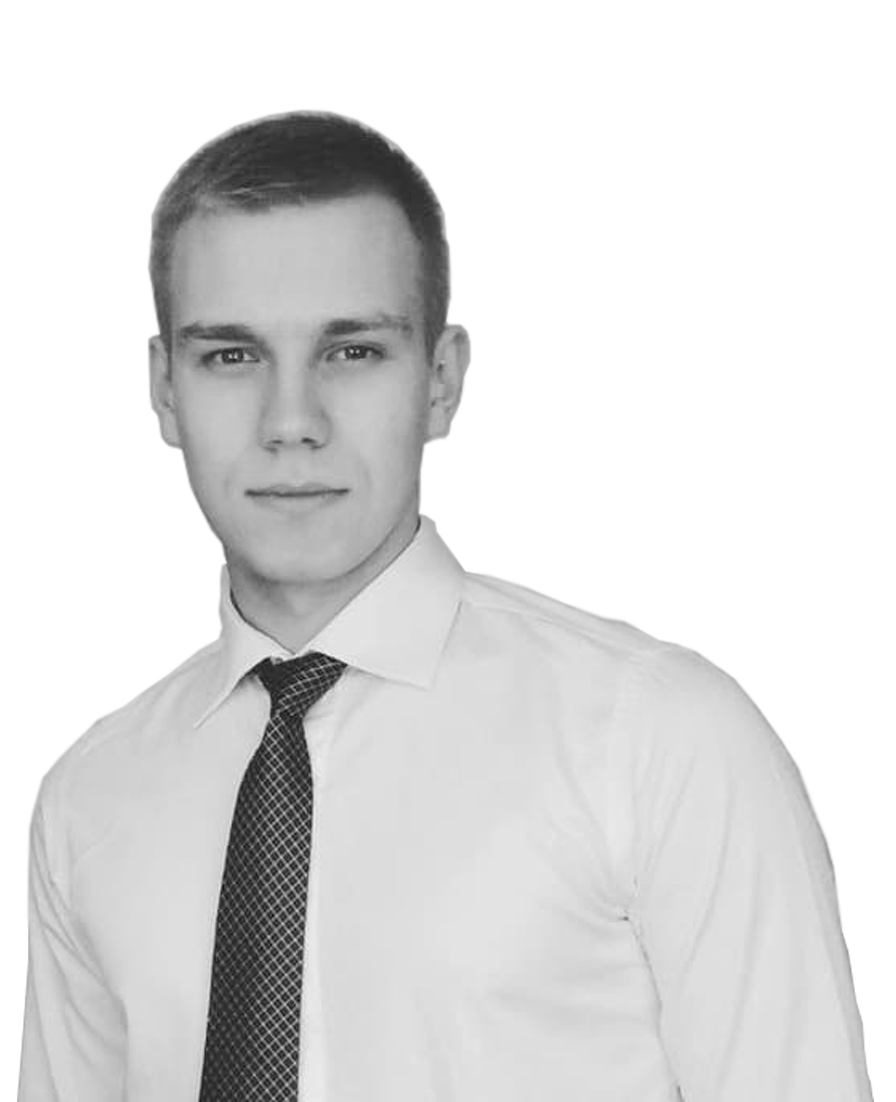
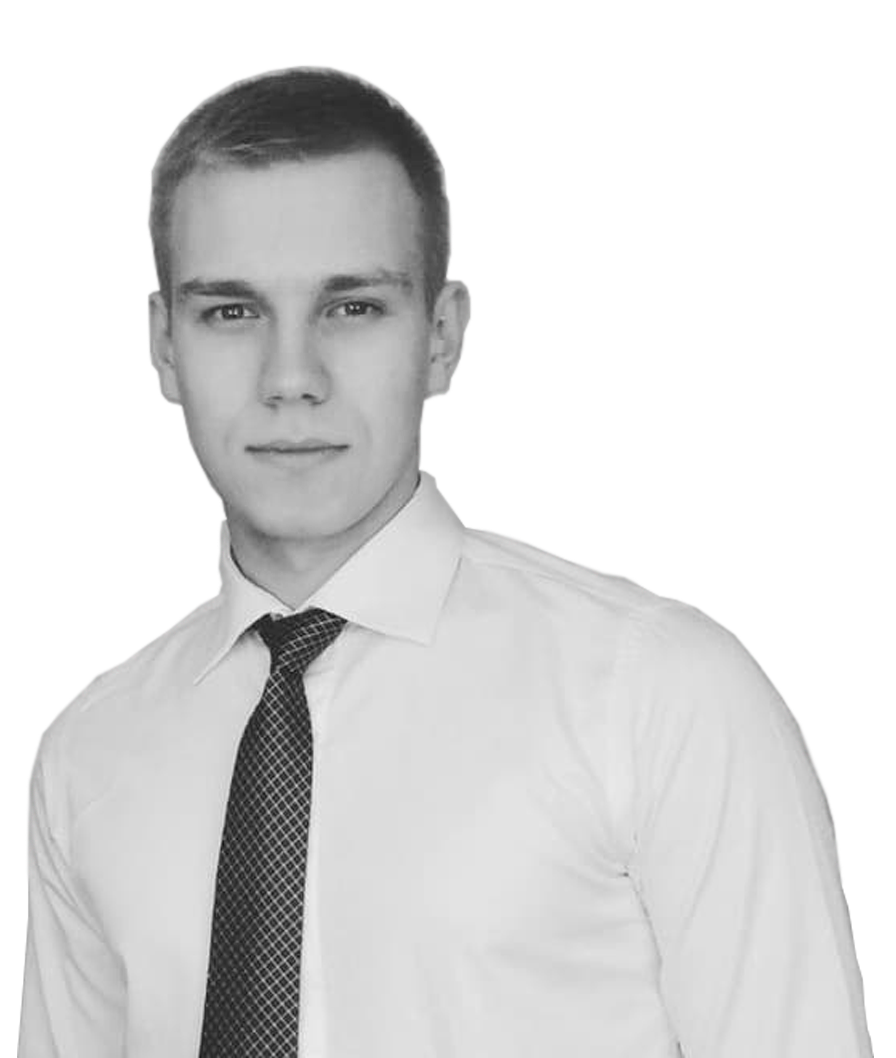
asdasd

diff --git a/ua.html b/ua.html
@@ -98,7 +98,7 @@
             </div>
 
             <div class="col-md-6 text-right">
-                <img src="assets/img/me.png" alt="me">
+                <img src="assets/img/me2.png" alt="me">
             </div>
 
         </div>
@@ -318,7 +318,7 @@
     <section id="contact" class="site-section section-form text-center">
         <div class="container">
 
-            <h3>Contact</h3>
+            <h3>Контакти</h3>
             <img src="assets/img/lines.svg" class="img-lines" alt="lines">
             <script type="text/javascript">var submitted=false;</script>
             <iframe name="hidden_iframe" id="hidden_iframe" style="display:none;"
@@ -328,17 +328,17 @@
                   method="post" target="hidden_iframe" onsubmit="submitted=true;">
                 <div class="row">
                     <div class="col-sm-6">
-                        <input type="text" name="entry.856185836" class="form-control mt-x-0" placeholder="Name" required>
+                        <input type="text" name="entry.856185836" class="form-control mt-x-0" placeholder="Ім'я" required>
                     </div>
                     <div class="col-sm-6">
-                        <input type="email" name="entry.111074302" class="form-control" placeholder="Email" required>
+                        <input type="email" name="entry.111074302" class="form-control" placeholder="Пошта" required>
                     </div>
                     <div class="col-sm-12">
-                        <textarea name="entry.858908852" id="mesaage" class="form-control" placeholder="Message"
+                        <textarea name="entry.858908852" id="mesaage" class="form-control" placeholder="Повідомлення"
                                   required></textarea>
                     </div>
                 </div>
-                <button href="#" class="btn btn-border" type="submit">Hire Me <span
+                <button class="btn btn-border" type="submit">Зв'язатися зі мною <span
                         class="glyphicon glyphicon-send"></span></button>
             </form>
         </div>

diff --git a/assets/js/script.js b/assets/js/script.js
@@ -1,6 +1,6 @@
 $(function() {
 
-    $('.navbar-toggle').click(function() {
+    $('.navbar-toggle').click(function(event) {
         $(this).toggleClass('act');
             if($(this).hasClass('act')) {
                 $('.main-menu').addClass('act');
@@ -8,16 +8,21 @@ $(function() {
             else {
                 $('.main-menu').removeClass('act');
             }
+
     });
 
     //jQuery for page scrolling feature - requires jQuery Easing plugin
-    $(document).on('click', '.page-scroll a', function(event) {
+    $(document).on('click', '.page-scroll a', null, function() {
         var $anchor = $(this);
         $('html, body').stop().animate({
             scrollTop: $($anchor.attr('href')).offset().top
-        }, 1000, 'easeInOutExpo');
+        }, 500, 'easeInOutExpo');
         event.preventDefault();
+        $('.main-menu').removeClass('act');
+        $('.navbar-toggle').removeClass('act');
+
     });
+
 
     // Highlight the top nav as scrolling occurs
     $('body').scrollspy({

diff --git a/index.html b/index.html
@@ -331,7 +331,7 @@
                                   required></textarea>
                     </div>
                 </div>
-                <button href="#" class="btn btn-border" type="submit">Hire Me</button>
+                <button class="btn btn-border" type="submit">Hire Me</button>
             </form>
         </div>
     </section><!-- /.section-form -->
